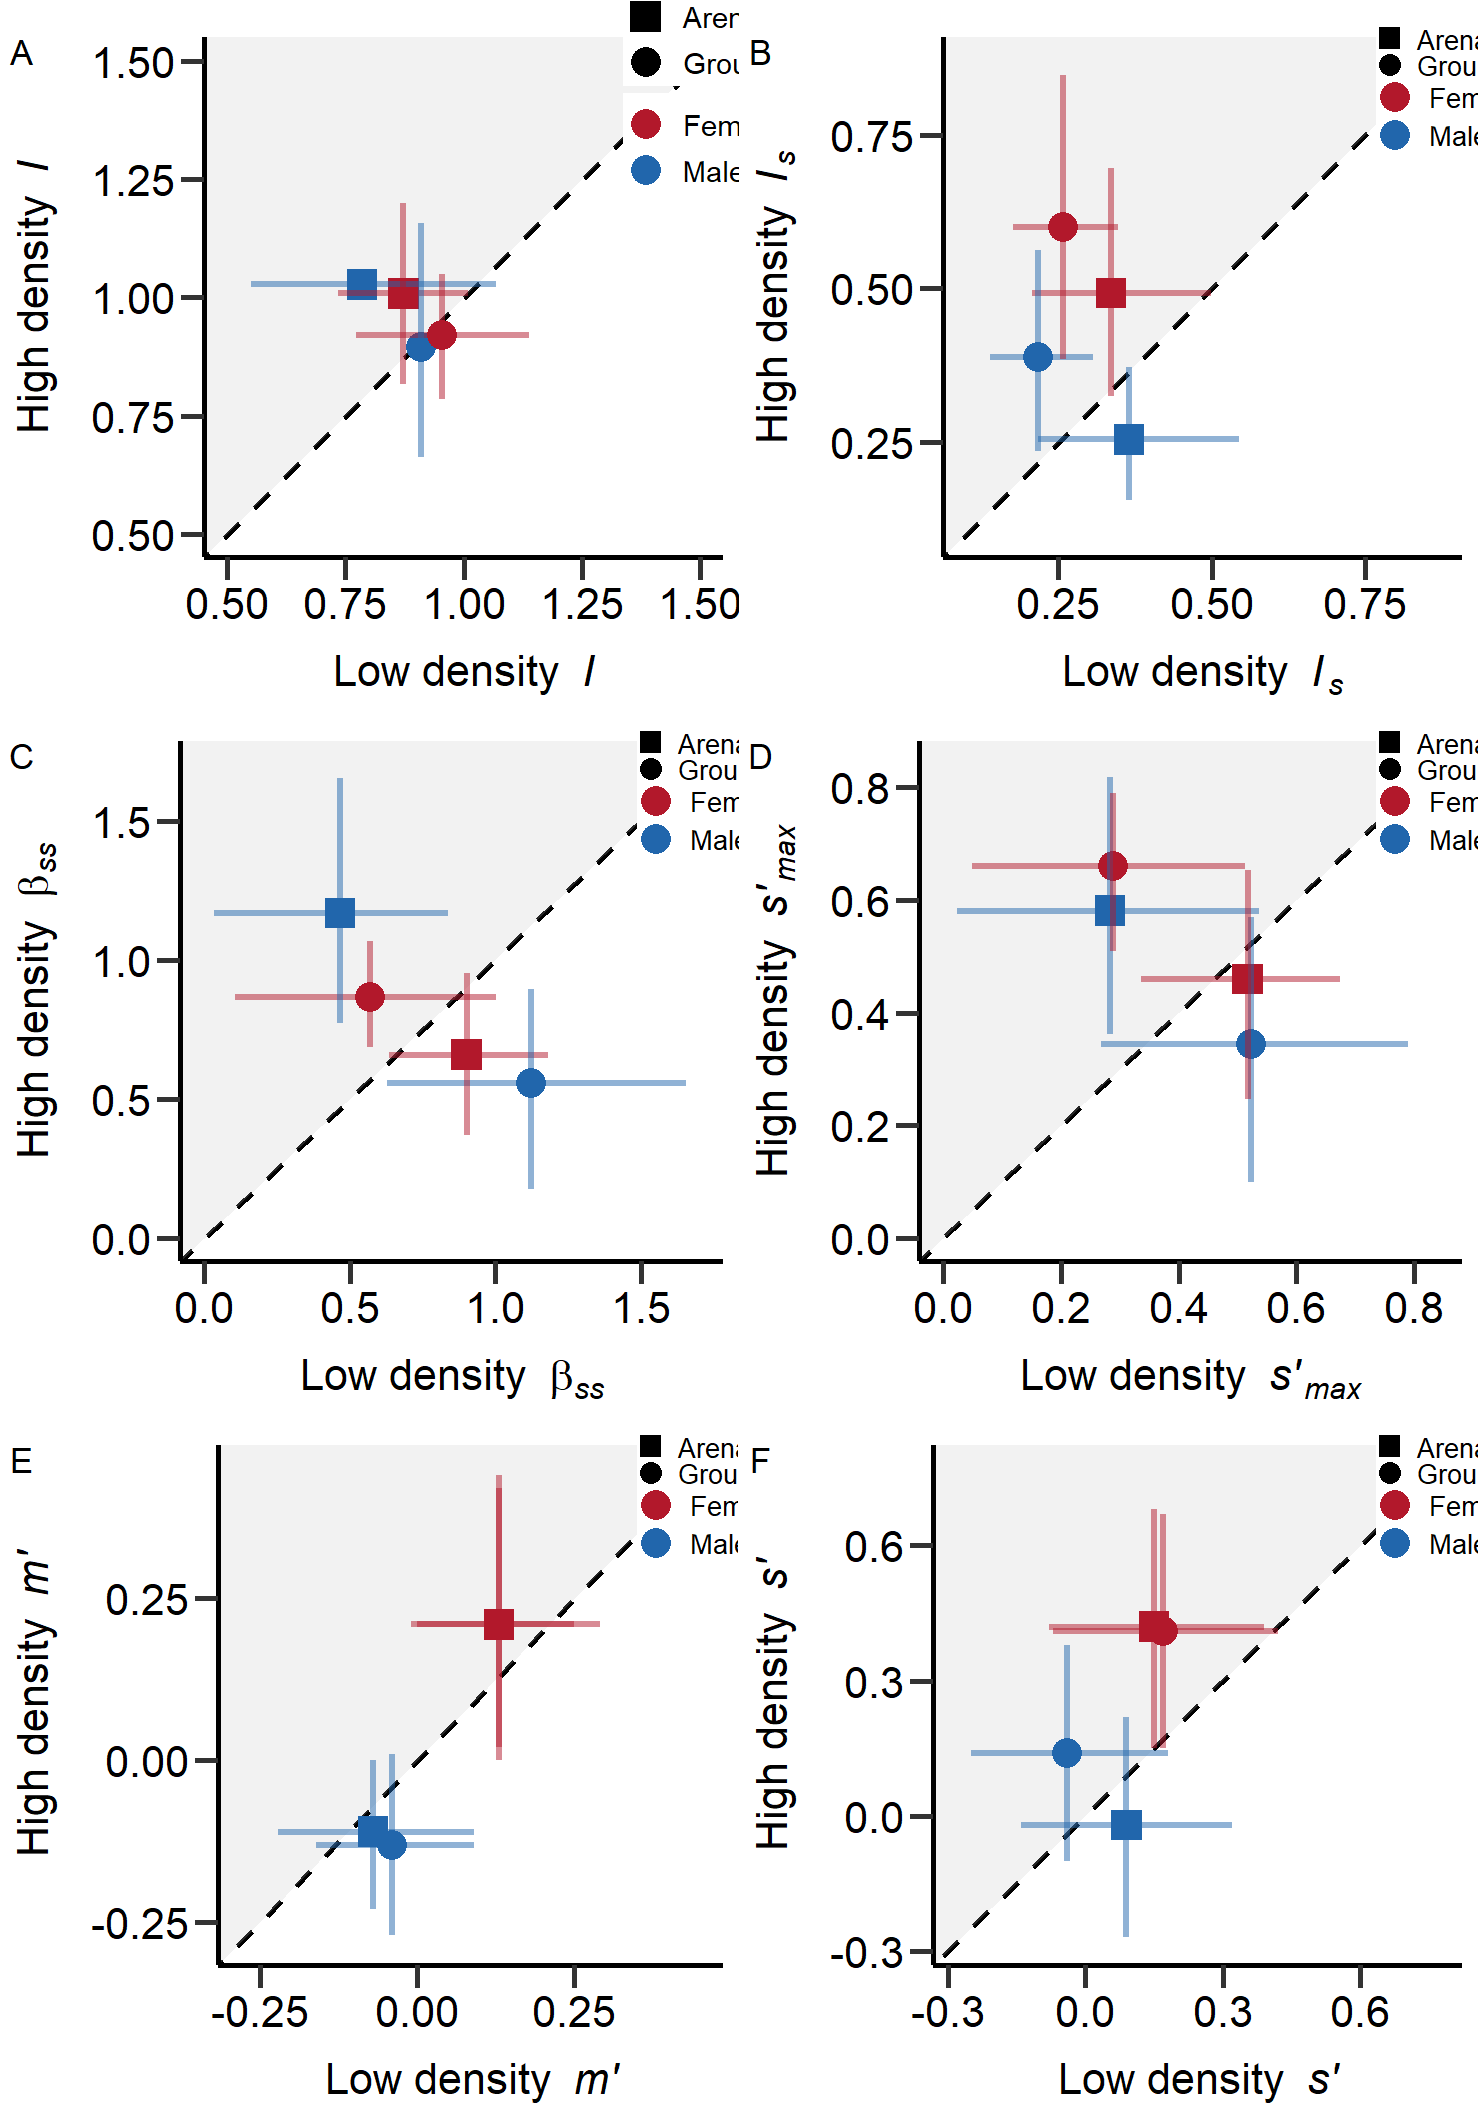
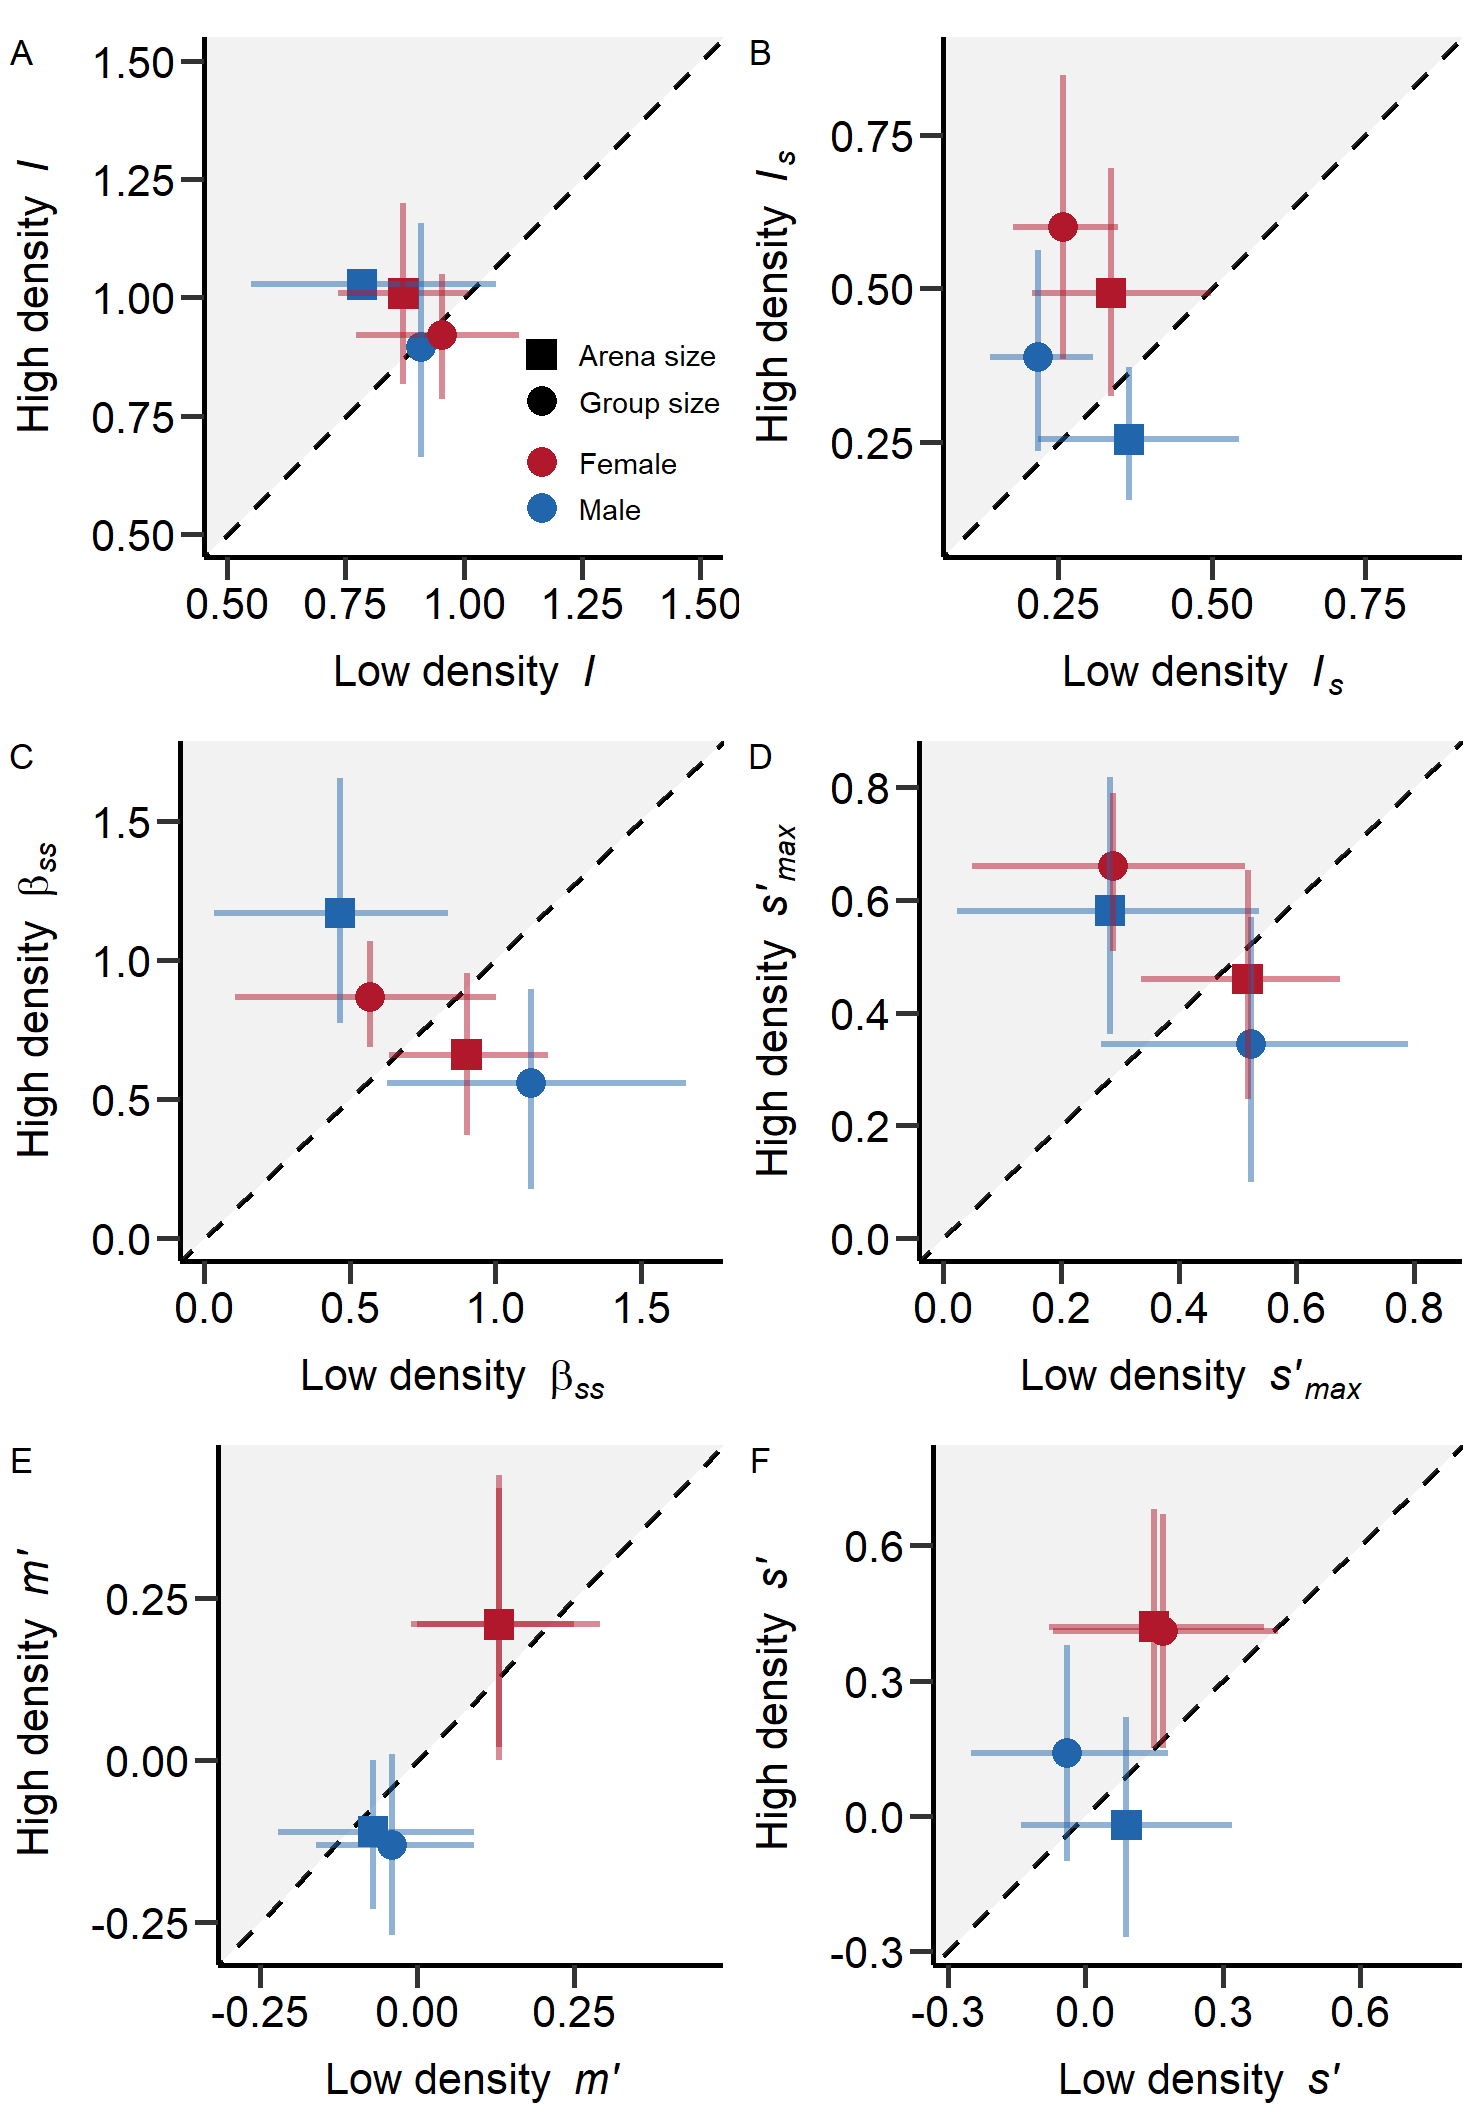
Build site.

diff --git a/docs/index5.html b/docs/index5.html
@@ -505,7 +505,7 @@ class="glyphicon glyphicon-ok text-success" aria-hidden="true"></span>
 <div class="tab-content">
 <div id="summary" class="tab-pane fade in active">
 <p>
-<strong>Last updated:</strong> 2023-04-21
+<strong>Last updated:</strong> 2023-04-22
 </p>
 <p>
 <strong>Checks:</strong> <span
@@ -637,15 +637,15 @@ project makes it easier to run your code on other machines.</p>
 <div class="panel panel-default">
 <div class="panel-heading">
 <p class="panel-title">
-<a data-toggle="collapse" data-parent="#workflowr-checks" href="#strongRepositoryversionstrongahrefhttpsgithubcomLennartWinklerDensityandsexualselection2023tree2dd68d098328e149851d5b3ab1364c8e9634765ctargetblank2dd68d0a">
+<a data-toggle="collapse" data-parent="#workflowr-checks" href="#strongRepositoryversionstrongahrefhttpsgithubcomLennartWinklerDensityandsexualselection2023tree5b85dd9a015e9d332ed719b3d4acd61a3ec74200targetblank5b85dd9a">
 <span class="glyphicon glyphicon-ok text-success"
 aria-hidden="true"></span> <strong>Repository version:</strong>
-<a href="https://github.com/LennartWinkler/Density_and_sexual_selection_2023/tree/2dd68d098328e149851d5b3ab1364c8e9634765c" target="_blank">2dd68d0</a>
+<a href="https://github.com/LennartWinkler/Density_and_sexual_selection_2023/tree/5b85dd9a015e9d332ed719b3d4acd61a3ec74200" target="_blank">5b85dd9</a>
 </a>
 </p>
 </div>
 <div
[2 lines of base64/hex data omitted]
 class="panel-collapse collapse">
 <div class="panel-body">
 <p>
@@ -655,7 +655,7 @@ reproducibility.
 </p>
 <p>
 The results in this page were generated with repository version
-<a href="https://github.com/LennartWinkler/Density_and_sexual_selection_2023/tree/2dd68d098328e149851d5b3ab1364c8e9634765c" target="_blank">2dd68d0</a>.
+<a href="https://github.com/LennartWinkler/Density_and_sexual_selection_2023/tree/5b85dd9a015e9d332ed719b3d4acd61a3ec74200" target="_blank">5b85dd9</a>.
 See the <em>Past versions</em> tab to see a history of the changes made
 to the R Markdown and HTML files.
 </p>
@@ -716,6 +716,40 @@ Message
 </tr>
 </thead>
 <tbody>
+<tr>
+<td>
+Rmd
+</td>
+<td>
+<a href="https://github.com/LennartWinkler/Density_and_sexual_selection_2023/blob/5b85dd9a015e9d332ed719b3d4acd61a3ec74200/analysis/index5.Rmd" target="_blank">5b85dd9</a>
+</td>
+<td>
+LennartWinkler
+</td>
+<td>
+2023-04-22
+</td>
+<td>
+wflow_publish(all = T)
+</td>
+</tr>
+<tr>
+<td>
+html
+</td>
+<td>
+<a href="https://rawcdn.githack.com/LennartWinkler/Density_and_sexual_selection_2023/a88c4c587b984d31c761359bbd78c88c783f3020/docs/index5.html" target="_blank">a88c4c5</a>
+</td>
+<td>
+LennartWinkler
+</td>
+<td>
+2023-04-21
+</td>
+<td>
+Build site.
+</td>
+</tr>
 <tr>
 <td>
 Rmd
@@ -2081,7 +2115,7 @@ with mean and 95%CI estimated via bootstrapping.</p>
 <div id="figure-3" class="section level3">
 <h3>Figure 3</h3>
 <div class="sourceCode" id="cb6"><pre class="sourceCode r"><code class="sourceCode r"><span id="cb6-1"><a href="#cb6-1" aria-hidden="true" tabindex="-1"></a><span class="co"># Figure 3</span></span>
-<span id="cb6-2"><a href="#cb6-2" aria-hidden="true" tabindex="-1"></a>Figure_3<span class="ot">&lt;-</span><span class="fu">grid.arrange</span>(BarPlot_3<span class="sc">+</span><span class="fu">theme</span>(<span class="at">legend.position =</span> <span class="fu">c</span>(<span class="dv">1</span>, <span class="fl">0.8</span>)),BarPlot_4<span class="sc">+</span><span class="fu">theme</span>(<span class="at">legend.position =</span> <span class="fu">c</span>(<span class="dv">1</span>, <span class="fl">0.8</span>)),BarPlot_1<span class="sc">+</span><span class="fu">theme</span>(<span class="at">legend.position =</span> <span class="fu">c</span>(<span class="dv">1</span>, <span class="fl">0.8</span>)),BarPlot_2<span class="sc">+</span><span class="fu">theme</span>(<span class="at">legend.position =</span> <span class="fu">c</span>(<span class="dv">1</span>, <span class="fl">0.8</span>)), <span class="at">nrow =</span> <span class="dv">2</span>,<span class="at">ncol=</span><span class="dv">2</span>)</span></code></pre></div>
+<span id="cb6-2"><a href="#cb6-2" aria-hidden="true" tabindex="-1"></a>Figure_3<span class="ot">&lt;-</span><span class="fu">grid.arrange</span>(BarPlot_3,BarPlot_4,BarPlot_1,BarPlot_2, <span class="at">nrow =</span> <span class="dv">2</span>,<span class="at">ncol=</span><span class="dv">2</span>)</span></code></pre></div>
 <div class="figure" style="text-align: left">
 <img src="figure/index5.Rmd/unnamed-chunk-5-1.png" alt="Figure 3: Variance components of reproductive success into mating success (MS) and fecundity (Fec) and their covariance for females (A + B) and into mating success (MS), paternity share (PS), and partner fecundity (pFec) and their covariances for males (C + D) for group size treatment (A + C) and arena size treatment (B + D). Mean and 95%CI estimated via bootstrapping (Table S9)." width="672" />
 <p class="caption">
@@ -3900,7 +3934,7 @@ and fertilization success.</p>
 <div id="figure-s8" class="section level3">
 <h3>Figure S8</h3>
 <div class="sourceCode" id="cb15"><pre class="sourceCode r"><code class="sourceCode r"><span id="cb15-1"><a href="#cb15-1" aria-hidden="true" tabindex="-1"></a><span class="do">### Figure S8</span></span>
-<span id="cb15-2"><a href="#cb15-2" aria-hidden="true" tabindex="-1"></a>Figure_S8<span class="ot">&lt;-</span><span class="fu">grid.arrange</span>(BarPlot_5_2<span class="sc">+</span><span class="fu">labs</span>(<span class="at">tag =</span> <span class="st">&quot;A&quot;</span>)<span class="sc">+</span><span class="fu">theme</span>(<span class="at">legend.position =</span> <span class="fu">c</span>(<span class="dv">1</span>, <span class="fl">0.9</span>)),BarPlot_6_2<span class="sc">+</span><span class="fu">theme</span>(<span class="at">legend.position =</span> <span class="fu">c</span>(<span class="dv">1</span>, <span class="fl">0.9</span>))<span class="sc">+</span><span class="fu">labs</span>(<span class="at">tag =</span> <span class="st">&quot;B&quot;</span>),BarPlot_1cv<span class="sc">+</span><span class="fu">theme</span>(<span class="at">legend.position =</span> <span class="fu">c</span>(<span class="dv">1</span>, <span class="fl">0.9</span>))<span class="sc">+</span><span class="fu">labs</span>(<span class="at">tag =</span> <span class="st">&quot;C&quot;</span>)<span class="sc">+</span><span class="fu">xlab</span>(<span class="st">&#39;Variance component&#39;</span>),BarPlot_2cv<span class="sc">+</span><span class="fu">theme</span>(<span class="at">legend.position =</span> <span class="fu">c</span>(<span class="dv">1</span>, <span class="fl">0.9</span>))<span class="sc">+</span><span class="fu">labs</span>(<span class="at">tag =</span> <span class="st">&quot;D&quot;</span>)<span class="sc">+</span><span class="fu">xlab</span>(<span class="st">&#39;Variance component&#39;</span>), <span class="at">nrow =</span> <span class="dv">2</span>,<span class="at">ncol=</span><span class="dv">2</span>)</span></code></pre></div>
+<span id="cb15-2"><a href="#cb15-2" aria-hidden="true" tabindex="-1"></a>Figure_S8<span class="ot">&lt;-</span><span class="fu">grid.arrange</span>(BarPlot_5_2<span class="sc">+</span><span class="fu">labs</span>(<span class="at">tag =</span> <span class="st">&quot;A&quot;</span>),BarPlot_6_2<span class="sc">+</span><span class="fu">labs</span>(<span class="at">tag =</span> <span class="st">&quot;B&quot;</span>),BarPlot_1cv<span class="sc">+</span><span class="fu">labs</span>(<span class="at">tag =</span> <span class="st">&quot;C&quot;</span>)<span class="sc">+</span><span class="fu">xlab</span>(<span class="st">&#39;Variance component&#39;</span>),BarPlot_2cv<span class="sc">+</span><span class="fu">labs</span>(<span class="at">tag =</span> <span class="st">&quot;D&quot;</span>)<span class="sc">+</span><span class="fu">xlab</span>(<span class="st">&#39;Variance component&#39;</span>), <span class="at">nrow =</span> <span class="dv">2</span>,<span class="at">ncol=</span><span class="dv">2</span>)</span></code></pre></div>
 <div class="figure" style="text-align: left">
 <img src="figure/index5.Rmd/unnamed-chunk-13-1.png" alt="Figure S8: Variance (A + B) and covariance (C + D) components of reproductive success into mating success (MS), insemination success (IS), fertilization success (FS) and partner fecundity (pFec) for males for group size treatment (A + C) and arena size treatment (B + D). Mean and 95%CI estimated via bootstrapping (Table S7)." width="672" />
 <p class="caption">

diff --git a/docs/index4.html b/docs/index4.html
@@ -505,7 +505,7 @@ class="glyphicon glyphicon-ok text-success" aria-hidden="true"></span>
 <div class="tab-content">
 <div id="summary" class="tab-pane fade in active">
 <p>
-<strong>Last updated:</strong> 2023-04-21
+<strong>Last updated:</strong> 2023-04-22
 </p>
 <p>
 <strong>Checks:</strong> <span
@@ -637,15 +637,15 @@ project makes it easier to run your code on other machines.</p>
 <div class="panel panel-default">
 <div class="panel-heading">
 <p class="panel-title">
-<a data-toggle="collapse" data-parent="#workflowr-checks" href="#strongRepositoryversionstrongahrefhttpsgithubcomLennartWinklerDensityandsexualselection2023tree2dd68d098328e149851d5b3ab1364c8e9634765ctargetblank2dd68d0a">
+<a data-toggle="collapse" data-parent="#workflowr-checks" href="#strongRepositoryversionstrongahrefhttpsgithubcomLennartWinklerDensityandsexualselection2023tree5b85dd9a015e9d332ed719b3d4acd61a3ec74200targetblank5b85dd9a">
 <span class="glyphicon glyphicon-ok text-success"
 aria-hidden="true"></span> <strong>Repository version:</strong>
-<a href="https://github.com/LennartWinkler/Density_and_sexual_selection_2023/tree/2dd68d098328e149851d5b3ab1364c8e9634765c" target="_blank">2dd68d0</a>
+<a href="https://github.com/LennartWinkler/Density_and_sexual_selection_2023/tree/5b85dd9a015e9d332ed719b3d4acd61a3ec74200" target="_blank">5b85dd9</a>
 </a>
 </p>
 </div>
 <div
[2 lines of base64/hex data omitted]
 class="panel-collapse collapse">
 <div class="panel-body">
 <p>
@@ -655,7 +655,7 @@ reproducibility.
 </p>
 <p>
 The results in this page were generated with repository version
-<a href="https://github.com/LennartWinkler/Density_and_sexual_selection_2023/tree/2dd68d098328e149851d5b3ab1364c8e9634765c" target="_blank">2dd68d0</a>.
+<a href="https://github.com/LennartWinkler/Density_and_sexual_selection_2023/tree/5b85dd9a015e9d332ed719b3d4acd61a3ec74200" target="_blank">5b85dd9</a>.
 See the <em>Past versions</em> tab to see a history of the changes made
 to the R Markdown and HTML files.
 </p>
@@ -716,6 +716,40 @@ Message
 </tr>
 </thead>
 <tbody>
+<tr>
+<td>
+Rmd
+</td>
+<td>
+<a href="https://github.com/LennartWinkler/Density_and_sexual_selection_2023/blob/5b85dd9a015e9d332ed719b3d4acd61a3ec74200/analysis/index4.Rmd" target="_blank">5b85dd9</a>
+</td>
+<td>
+LennartWinkler
+</td>
+<td>
+2023-04-22
+</td>
+<td>
+wflow_publish(all = T)
+</td>
+</tr>
+<tr>
+<td>
+html
+</td>
+<td>
+<a href="https://rawcdn.githack.com/LennartWinkler/Density_and_sexual_selection_2023/a88c4c587b984d31c761359bbd78c88c783f3020/docs/index4.html" target="_blank">a88c4c5</a>
+</td>
+<td>
+LennartWinkler
+</td>
+<td>
+2023-04-21
+</td>
+<td>
+Build site.
+</td>
+</tr>
 <tr>
 <td>
 Rmd
@@ -2544,7 +2578,7 @@ arena size treatments estimated for males and females with mean and
 <div id="figure-2" class="section level3">
 <h3>Figure 2</h3>
 <div class="sourceCode" id="cb9"><pre class="sourceCode r"><code class="sourceCode r"><span id="cb9-1"><a href="#cb9-1" aria-hidden="true" tabindex="-1"></a><span class="co"># Figure 2</span></span>
-<span id="cb9-2"><a href="#cb9-2" aria-hidden="true" tabindex="-1"></a>Figure_2<span class="ot">&lt;-</span><span class="fu">grid.arrange</span>(p16<span class="sc">+</span><span class="fu">theme</span>(<span class="at">legend.position =</span> <span class="fu">c</span>(<span class="dv">1</span>, <span class="fl">0.9</span>)),p17<span class="sc">+</span><span class="fu">theme</span>(<span class="at">legend.position =</span> <span class="fu">c</span>(<span class="dv">1</span>, <span class="fl">0.9</span>)),p18<span class="sc">+</span><span class="fu">theme</span>(<span class="at">legend.position =</span> <span class="fu">c</span>(<span class="dv">1</span>, <span class="fl">0.9</span>)),p19<span class="sc">+</span><span class="fu">theme</span>(<span class="at">legend.position =</span> <span class="fu">c</span>(<span class="dv">1</span>, <span class="fl">0.9</span>)),p20<span class="sc">+</span><span class="fu">theme</span>(<span class="at">legend.position =</span> <span class="fu">c</span>(<span class="dv">1</span>, <span class="fl">0.9</span>)),p21<span class="sc">+</span><span class="fu">theme</span>(<span class="at">legend.position =</span> <span class="fu">c</span>(<span class="dv">1</span>, <span class="fl">0.9</span>)), <span class="at">nrow =</span> <span class="dv">3</span>,<span class="at">ncol=</span><span class="dv">2</span>)</span></code></pre></div>
+<span id="cb9-2"><a href="#cb9-2" aria-hidden="true" tabindex="-1"></a>Figure_2<span class="ot">&lt;-</span><span class="fu">grid.arrange</span>(p16,p17,p18,p19,p20,p21, <span class="at">nrow =</span> <span class="dv">3</span>,<span class="at">ncol=</span><span class="dv">2</span>)</span></code></pre></div>
 <div class="figure" style="text-align: left">
 <img src="figure/index4.Rmd/unnamed-chunk-9-1.png" alt="Figure 2: Selection metrics estimated for females (blue) and males (red) under density manipulated via group (point) or arena size (square). Opportunity for selection (I; A), opportunity for sexual selection (Is; B), Bateman gradient (βss; C), Jones index (s’max; D), mating differential on body mass (m’; E) and selection differential on body mass (s’; F) with mean and 95%CI estimated via bootstrapping. Dashed lines mark equal effect size for both densities. In grey area metrics were larger under high density treatments. The x-/y-distance of means from dashed line is equal to the effect size of the treatment." width="739.2" />
 <p class="caption">
